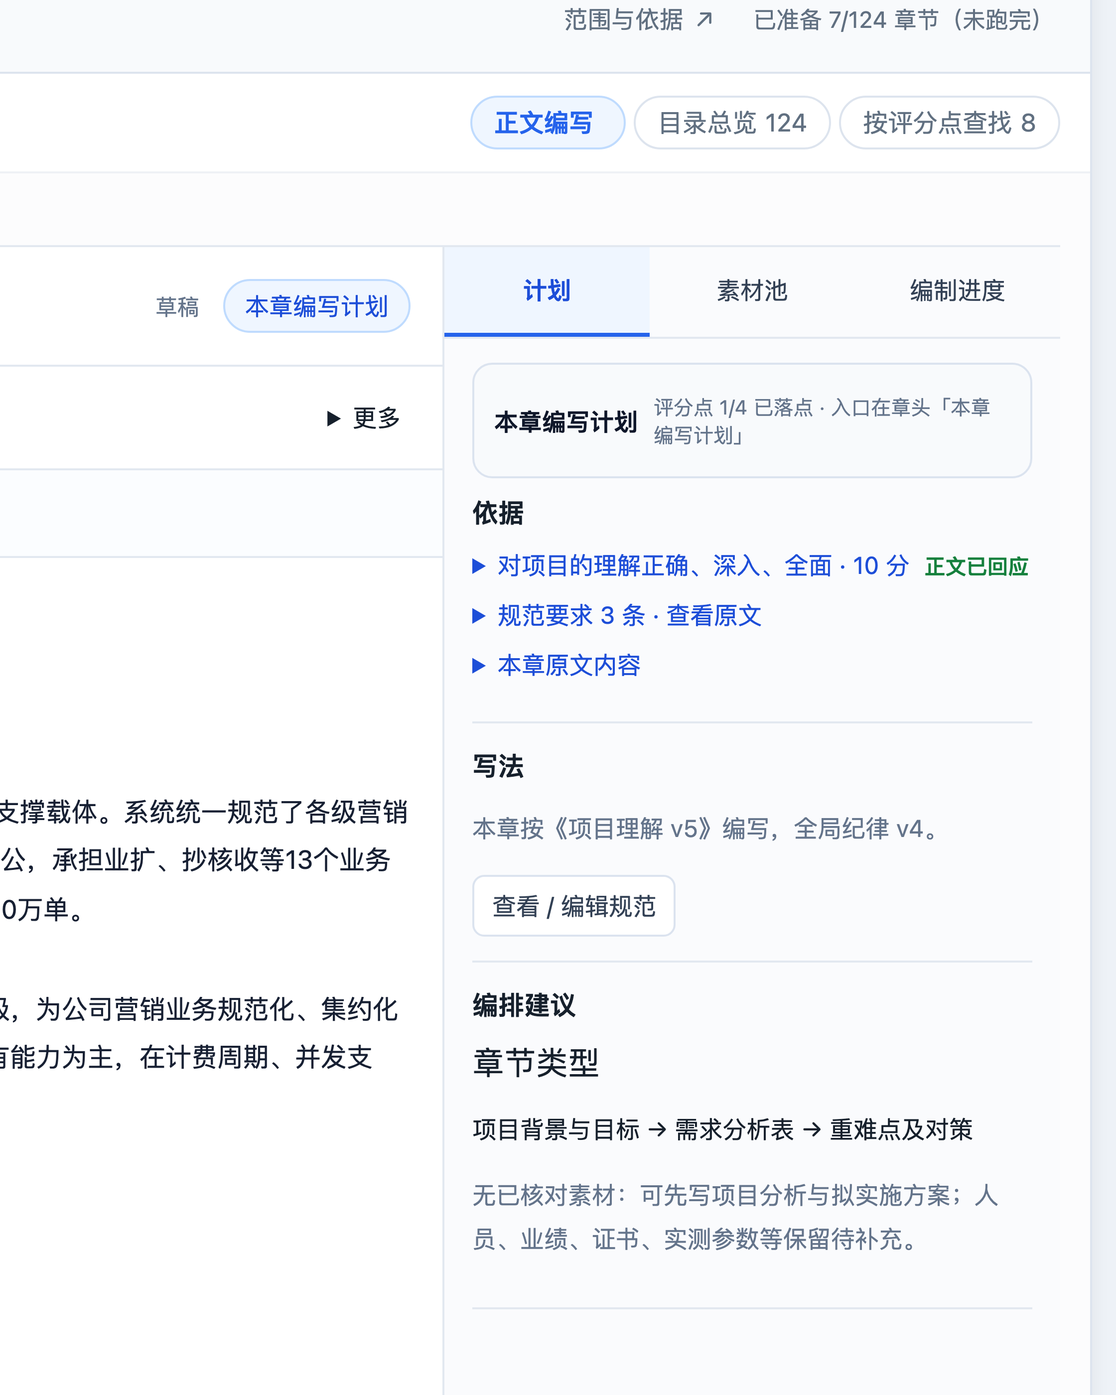
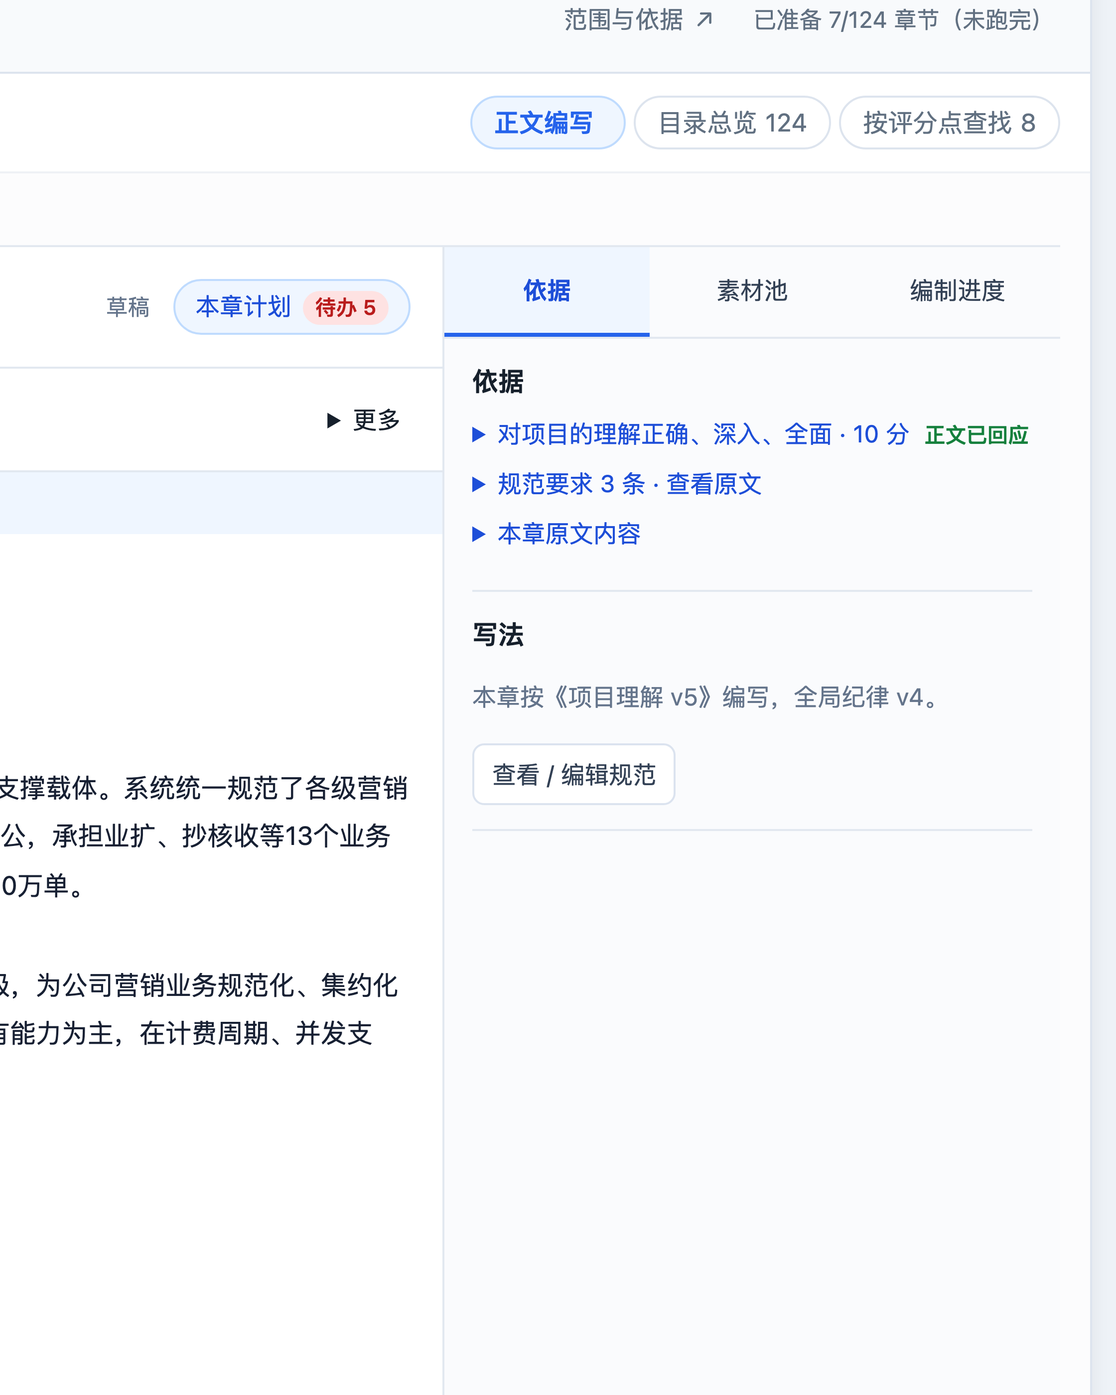
feat(A1-A3): 按 IA 建议重构右栏与章头入口
## A1 章头入口唯一且带状态
- 按钮文案「本章编写计划」→「**本章计划**」
- 新增待办角标「待办 5」（来自 chapter_plan.todo，0 时不显示）
- loadBasis 同时拉取本章计划摘要（todo 数 + 页数），供角标使用

## A2 右栏变成纯参考区
- 页签：「计划 / 素材池 / 进度」→「**依据 / 素材池 / 进度**」（删掉语义重复的"计划"页签）
- 去掉顶部"本章编写计划"状态卡片（状态改由章头角标承载）
- 去掉「编排建议 / 章节类型」块与"无已核对素材…"临时建议
- 保留「依据」（评分点/条款/原文）+「写法」（规范版本 + 查看/编辑）

## A3 生成输入归位
- 「章节类型」下拉移入**本章计划面板的「④ 写法要点」**（它决定骨架/表图/提示词）
- 切换后仍走 PUT /blocks/{id}/studio，即时生效

## 过程记录
中途一次"移除右栏观察器"的编辑误删了右栏事件绑定 → 已 git checkout 回滚并重做
（保留原观察器：右栏 select 移除后它会自动 no-op，安全）

## 自检规则更新（24 条）
- 右栏页签为 依据/素材池/进度（无「计划」）
- 依据页签只含 依据/写法
- 章头入口「本章计划」+ 待办角标
- 章节类型在计划面板内

`bash scripts/check.sh` → 24/24 通过（v302，版本号已统一）

diff --git a/frontend/assets/mode-outline.js b/frontend/assets/mode-outline.js
@@ -2,9 +2,9 @@
    抽成模块的目的：两段内联脚本有 90 个同名顶层标识符 + 18 个重复 DOM id，
    同页拼接必然互相覆盖；各自成为一个模块即各自一个作用域。
    本文件在抽取时**未改任何逻辑**。 */
-import {mountChapterStudio, exportDocument} from './chapter-studio.mjs?v=20261016-v300';
-import { api } from './api.js?v=20261016-v300';
-import { specContentHtml } from './spec-content.mjs?v=20261016-v300';
+import {mountChapterStudio, exportDocument} from './chapter-studio.mjs?v=20261016-v302';
+import { api } from './api.js?v=20261016-v302';
+import { specContentHtml } from './spec-content.mjs?v=20261016-v302';
 // 顶栏（项目名旁边那行「第 N 轮 · ...」）由共享壳 workspace.js 渲染。这里要把它
 // 改成**页面自己的真实状态**：checkpoint 的 stage 在准备中/编写准备完成后都停在
 // outline_review，只看它的话顶栏永远显示"待确认目录"（实测就是这个问题）。
@@ -12,7 +12,7 @@ import { workspace, renderWorkspaceChrome,
          REQUIREMENT_ROLES, SELECTABLE_REQUIREMENT_ROLES, ROLE_LABEL_SHARED, ROLE_HINT_SHARED,
          roleMismatchWarning, inferRoleFromFilename,
          uiAlert, uiConfirm,
-       } from './workspace.js?v=20261016-v300';
+       } from './workspace.js?v=20261016-v302';
 import { resolvePackageScope, buildOutlineTree, isOrphanedRun, activeStages, instructionDirty, newOutlineId, outlineSubtreeRange,
          moveOutlineNode, indentOutlineNode, outdentOutlineNode,
          moveManyOutlineNodes, indentManyOutlineNodes, outdentManyOutlineNodes,
@@ -31,7 +31,7 @@ import { resolvePackageScope, buildOutlineTree, isOrphanedRun, activeStages, ins
          // 章节状态投影：素材库 / 方案编辑 / 覆盖矩阵共用同一份判定（不再各算各的）
          chapterStage, chapterBadges, filterChapters, chapterFilterCounts,
          CHAPTER_STAGE_LABELS, evidenceByChapter, expandVisibleWithAncestors
-       } from './workspace-model.mjs?v=20261016-v300';
+       } from './workspace-model.mjs?v=20261016-v302';
 
 const params = new URLSearchParams(location.search);
 // projectId **只取数字部分**：链接被误写成 `?projectId=19**(Cmd+Shift+R)`（连带说明文字）
@@ -180,7 +180,7 @@ document.head.insertAdjacentHTML('beforeend', `<style>
 // 左栏章节树：行标记与「方案编辑」共用一份（2026-10-13 左栏归一）。
 // 此前两侧各拼一套（.ot-row / .doc-outline-item），数据投影虽已共用，
 // 但标记重复维护会漂移（workspace-model.mjs 注释里记着 "#undefined" 那次）。
-import { chapterNode, chapterBadgesHtml as sharedBadgesHtml } from './chapter-tree.mjs?v=20261016-v300';
+import { chapterNode, chapterBadgesHtml as sharedBadgesHtml } from './chapter-tree.mjs?v=20261016-v302';
 const blocksEmpty = document.getElementById('blocks-empty');
 const sidebarToc  = document.getElementById('sidebar-toc');
 const ringFill    = document.getElementById('ring-fill');

diff --git a/frontend/workbench.html b/frontend/workbench.html
@@ -4,7 +4,7 @@
     <meta charset="UTF-8" />
     <meta name="viewport" content="width=device-width, initial-scale=1.0" />
     <title>智能应标 · 材料撰写</title>
-    <link rel="stylesheet" href="./assets/styles.css?v=20261016-v300" />
+    <link rel="stylesheet" href="./assets/styles.css?v=20261016-v302" />
     <style>
       /* Outline pane */
       .workspace-shell .outline-pane {
@@ -2055,7 +2055,7 @@
     </style>
     <!-- Markdown 渲染（用于预览模式） -->
     <script src="https://cdn.jsdelivr.net/npm/marked@12.0.0/marked.min.js"></script>
-  <link rel="stylesheet" href="./assets/workspace.css?v=20261016-v300" />
+  <link rel="stylesheet" href="./assets/workspace.css?v=20261016-v302" />
   </head>
   <body>
   <script>
@@ -2500,18 +2500,18 @@
       </main>
     </div>
 
-    <script type="module" src="./assets/workbench.js?v=20261016-v300"></script>
+    <script type="module" src="./assets/workbench.js?v=20261016-v302"></script>
     <script type="module">
-      import { GenerateSession } from './assets/generate-session.js?v=20261016-v300';
-      import { initContextPanel } from './assets/context-panel.js?v=20261016-v300';
-      import { api } from './assets/api.js?v=20261016-v300';
-      import { request as workspaceRequest, refreshWorkspace, workspace, confirmChapterAction } from './assets/workspace.js?v=20261016-v300';
+      import { GenerateSession } from './assets/generate-session.js?v=20261016-v302';
+      import { initContextPanel } from './assets/context-panel.js?v=20261016-v302';
+      import { api } from './assets/api.js?v=20261016-v302';
+      import { request as workspaceRequest, refreshWorkspace, workspace, confirmChapterAction } from './assets/workspace.js?v=20261016-v302';
       // 提炼字段枚举 + 素材依据的**渲染片段**与 project-init 共用（见 workspace-model.mjs 注释）：
       // 性质徽标与出处行的实现在那边只有一份，两个页面不再各写一套（曾经因此漂移出
       // "每行显示 #undefined"）。
       import { CONSTRAINT_LEVELS, constraintLevelLabel,
                evidenceKindBadgeHtml, evidenceSourceLineHtml, evidenceSnippet,
-               chapterStage, CHAPTER_STAGE_LABELS } from './assets/workspace-model.mjs?v=20261016-v300';
+               chapterStage, CHAPTER_STAGE_LABELS } from './assets/workspace-model.mjs?v=20261016-v302';
       initContextPanel();
 
       // 素材抽屉：默认收起（写作时右栏就是正文本身），点工具栏「素材 n ▸」打开；
@@ -5575,6 +5575,6 @@
       })();
     })();
     </script>
-  <script type="module" src="./assets/workspace.js?v=20261016-v300"></script>
+  <script type="module" src="./assets/workspace.js?v=20261016-v302"></script>
   </body>
 </html>

diff --git a/frontend/three-mode.html b/frontend/three-mode.html
@@ -4,9 +4,9 @@
     <meta charset="UTF-8" />
     <meta name="viewport" content="width=device-width, initial-scale=1.0" />
     <title>AiBidding · Workbench Init State</title>
-    <link rel="stylesheet" href="./assets/response-outline.css?v=20261016-v300" />
-    <link rel="stylesheet" href="./assets/chapter-studio.css?v=20261016-v300" />
-    <link rel="stylesheet" href="./assets/styles.css?v=20261016-v300" />
+    <link rel="stylesheet" href="./assets/response-outline.css?v=20261016-v302" />
+    <link rel="stylesheet" href="./assets/chapter-studio.css?v=20261016-v302" />
+    <link rel="stylesheet" href="./assets/styles.css?v=20261016-v302" />
     <style>
 /* ── 三栏布局 ── */
 .init-layout {
@@ -3350,8 +3350,8 @@ body[data-view="matching"] .match-detail { display: block; }
   body[data-view="editor"] .ws-editor-layout { flex: 1 1 auto; min-height: 0; }
 
 </style>
-  <link rel="stylesheet" href="./assets/workspace.css?v=20261016-v300" />
-  <link rel="stylesheet" href="./assets/ui.css?v=20261016-v300" />   <!-- 组件最小集：最后加载以统一历史类名 -->
+  <link rel="stylesheet" href="./assets/workspace.css?v=20261016-v302" />
+  <link rel="stylesheet" href="./assets/ui.css?v=20261016-v302" />   <!-- 组件最小集：最后加载以统一历史类名 -->
   </head>
   <body data-view="outline" data-modes="outline,matching,editor">
     <div class="workspace-shell">
@@ -4062,16 +4062,16 @@ body[data-view="matching"] .match-detail { display: block; }
         if (skel) skel.hidden = true;
       }, 6000);
     </script>
-    <script type="module" src="./assets/workbench.js?v=20261016-v300"></script>
-    <script type="module" src="./assets/mode-dispatch.js?v=20261016-v300"></script>
+    <script type="module" src="./assets/workbench.js?v=20261016-v302"></script>
+    <script type="module" src="./assets/mode-dispatch.js?v=20261016-v302"></script>
     <!-- 动态 import：失败可捕获并上报（静态 import 失败无法捕获，会让整页静默不执行） -->
     <script type="module">
-      for (const mod of ['./assets/mode-outline.js?v=20261016-v300',
-                        './assets/mode-editor.js?v=20261016-v300']) {
+      for (const mod of ['./assets/mode-outline.js?v=20261016-v302',
+                        './assets/mode-editor.js?v=20261016-v302']) {
         try { await import(mod); }
         catch (err) { window.__bootErrors.push(`模块加载失败 ${mod}：${err?.message || err}`); }
       }
     </script>
-  <script type="module" src="./assets/workspace.js?v=20261016-v300"></script>
+  <script type="module" src="./assets/workspace.js?v=20261016-v302"></script>
   </body>
 </html>

diff --git a/frontend/project-init.html b/frontend/project-init.html
@@ -4,7 +4,7 @@
     <meta charset="UTF-8" />
     <meta name="viewport" content="width=device-width, initial-scale=1.0" />
     <title>AiBidding · Workbench Init State</title>
-    <link rel="stylesheet" href="./assets/styles.css?v=20261016-v300" />
+    <link rel="stylesheet" href="./assets/styles.css?v=20261016-v302" />
     <style>
 /* ── 三栏布局 ── */
 .init-layout {
@@ -889,7 +889,7 @@ body[data-view="matching"] .match-detail { display: block; }
   background: #eff6ff;
 }
     </style>
-  <link rel="stylesheet" href="./assets/workspace.css?v=20261016-v300" />
+  <link rel="stylesheet" href="./assets/workspace.css?v=20261016-v302" />
   </head>
   <body data-view="outline">
   <script>
@@ -1097,14 +1097,14 @@ body[data-view="matching"] .match-detail { display: block; }
     </div>
 
     <script type="module">
-import { api } from './assets/api.js?v=20261016-v300';
+import { api } from './assets/api.js?v=20261016-v302';
 // 顶栏（项目名旁边那行「第 N 轮 · ...」）由共享壳 workspace.js 渲染。这里要把它
 // 改成**页面自己的真实状态**：checkpoint 的 stage 在提炼中/提炼完成后都停在
 // outline_review，只看它的话顶栏永远显示"待确认目录"（实测就是这个问题）。
 import { workspace, renderWorkspaceChrome,
          REQUIREMENT_ROLES, ROLE_LABEL_SHARED, ROLE_HINT_SHARED,
          roleMismatchWarning, inferRoleFromFilename,
-       } from './assets/workspace.js?v=20261016-v300';
+       } from './assets/workspace.js?v=20261016-v302';
 import { buildOutlineTree, isOrphanedRun, activeStages, instructionDirty, newOutlineId, outlineSubtreeRange,
          moveOutlineNode, indentOutlineNode, outdentOutlineNode,
          removeOutlineSubtree, insertSiblingAfter, insertChildOf,
@@ -1118,7 +1118,7 @@ import { buildOutlineTree, isOrphanedRun, activeStages, instructionDirty, newOut
          // 章节状态投影：素材库 / 方案编辑 / 覆盖矩阵共用同一份判定（不再各算各的）
          chapterStage, chapterBadges, filterChapters, chapterFilterCounts,
          CHAPTER_STAGE_LABELS, evidenceByChapter, expandVisibleWithAncestors
-       } from './assets/workspace-model.mjs?v=20261016-v300';
+       } from './assets/workspace-model.mjs?v=20261016-v302';
 
 const params = new URLSearchParams(location.search);
 const projectId = params.get('projectId');
@@ -4957,6 +4957,6 @@ bindMatchDetailActions();
   });
 })();
     </script>
-  <script type="module" src="./assets/workspace.js?v=20261016-v300"></script>
+  <script type="module" src="./assets/workspace.js?v=20261016-v302"></script>
   </body>
 </html>

diff --git a/frontend/assets/mode-editor.js b/frontend/assets/mode-editor.js
@@ -2,13 +2,13 @@
    抽成模块的目的：两段内联脚本有 90 个同名顶层标识符 + 18 个重复 DOM id，
    同页拼接必然互相覆盖；各自成为一个模块即各自一个作用域。
    本文件在抽取时**未改任何逻辑**。 */
-import { GenerateSession } from './generate-session.js?v=20261016-v300';
+import { GenerateSession } from './generate-session.js?v=20261016-v302';
 // 左栏章节树：与「要求与大纲 / 素材库」共用一份行标记（2026-10-13 左栏归一）
-import { chapterNode, renderChapterTree } from './chapter-tree.mjs?v=20261016-v300';
-import { initContextPanel } from './context-panel.js?v=20261016-v300';
-import { api } from './api.js?v=20261016-v300';
+import { chapterNode, renderChapterTree } from './chapter-tree.mjs?v=20261016-v302';
+import { initContextPanel } from './context-panel.js?v=20261016-v302';
+import { api } from './api.js?v=20261016-v302';
 import { request as workspaceRequest, refreshWorkspace, workspace, confirmChapterAction ,
-         uiAlert, uiConfirm} from './workspace.js?v=20261016-v300';
+         uiAlert, uiConfirm} from './workspace.js?v=20261016-v302';
 
 // ── 本章要求 bar 的应答条目缓存 ──────────────────────────────
 // 必须**声明在模块最前面**：它原本声明在文件中部，而模块之间存在循环依赖
@@ -21,7 +21,7 @@ let responseItemsByBlock = {};
 // "每行显示 #undefined"）。
 import { CONSTRAINT_LEVELS, constraintLevelLabel,
          evidenceKindBadgeHtml, evidenceSourceLineHtml, evidenceSnippet,
-         chapterStage, CHAPTER_STAGE_LABELS } from './workspace-model.mjs?v=20261016-v300';
+         chapterStage, CHAPTER_STAGE_LABELS } from './workspace-model.mjs?v=20261016-v302';
 initContextPanel();
 
 // 素材抽屉：默认收起（写作时右栏就是正文本身），点工具栏「素材 n ▸」打开；

diff --git a/frontend/project-intake.html b/frontend/project-intake.html
@@ -3,7 +3,7 @@
 <head>
   <meta charset="utf-8"><meta name="viewport" content="width=device-width,initial-scale=1">
   <title>项目准备 · 智能应标</title>
-  <link rel="stylesheet" href="/assets/styles.css?v=20261016-v300">
+  <link rel="stylesheet" href="/assets/styles.css?v=20261016-v302">
   <style>
     body{margin:0;background:#f7f8fa;color:#17202a;font-family:Inter,"PingFang SC",sans-serif}
     .shell{max-width:1120px;margin:auto;padding:28px}.top{display:flex;justify-content:space-between;align-items:center;margin-bottom:22px}
@@ -32,4 +32,4 @@
 </main>
 <dialog id="package-editor"><form id="package-form"><h2>编辑投标对象</h2><p class="hint">仅在识别有误时修改；名称可留空。</p><input id="edit-id" type="hidden"><label>对象类型<select id="edit-kind"><option value="package">标包</option><option value="section">标段</option><option value="target">独立标的</option></select></label><label>所属标的编号<input id="edit-target"></label><label>标包 / 标段编号<input id="edit-code"></label><label>完整名称<input id="edit-name" maxlength="300"></label><div class="actions"><button type="button" id="cancel-edit">取消</button><button class="primary" type="submit">保存</button></div></form></dialog>
 <dialog id="merge-dialog"><form id="merge-form"><h2>合并重复候选</h2><p class="hint">将当前候选的证据合并到以下保留项。已有运行成果的候选不能合并，保留项需要重新核验。</p><input id="merge-source" type="hidden"><label>保留的投标对象<select id="merge-destination"></select></label><div class="actions"><button type="button" id="cancel-merge">取消</button><button type="submit" class="primary">确认合并</button></div></form></dialog>
-<script type="module" src="/assets/intake.js?v=20261016-v300"></script></body></html>
+<script type="module" src="/assets/intake.js?v=20261016-v302"></script></body></html>

diff --git a/frontend/review.html b/frontend/review.html
@@ -4,16 +4,16 @@
     <meta charset="UTF-8" />
     <meta name="viewport" content="width=device-width, initial-scale=1.0" />
     <title>AiBidding · 质量检查</title>
-    <link rel="stylesheet" href="./assets/styles.css?v=20261016-v300" />
-    <link rel="stylesheet" href="./assets/review.css?v=20261016-v300" />
-  <link rel="stylesheet" href="./assets/workspace.css?v=20261016-v300" />
+    <link rel="stylesheet" href="./assets/styles.css?v=20261016-v302" />
+    <link rel="stylesheet" href="./assets/review.css?v=20261016-v302" />
+  <link rel="stylesheet" href="./assets/workspace.css?v=20261016-v302" />
   <style>
     /* 返回作业面板：与项目名同级的次级入口 */
     .back-to-panel { margin-left:10px; font-size:12.5px; color:var(--muted); text-decoration:none;
       border:1px solid var(--line); border-radius:8px; padding:3px 10px; }
     .back-to-panel:hover { color:var(--text); background:var(--bg-2); }
   </style>
-  <link rel="stylesheet" href="./assets/ui.css?v=20261016-v300" />   <!-- 组件最小集：最后加载以统一历史类名 -->
+  <link rel="stylesheet" href="./assets/ui.css?v=20261016-v302" />   <!-- 组件最小集：最后加载以统一历史类名 -->
   </head>
   <body>
     <div class="workspace-shell">
@@ -96,7 +96,7 @@
       </main>
     </div>
 
-    <script type="module" src="./assets/review.js?v=20261016-v300"></script>
-  <script type="module" src="./assets/workspace.js?v=20261016-v300"></script>
+    <script type="module" src="./assets/review.js?v=20261016-v302"></script>
+  <script type="module" src="./assets/workspace.js?v=20261016-v302"></script>
   </body>
 </html>

diff --git a/frontend/assets/workbench.js b/frontend/assets/workbench.js
@@ -1,12 +1,12 @@
-import {workspace, subscribe, refreshWorkspace, workspaceUrl, confirmChapterAction, openDialog, showHistory, statusLabels, esc} from './workspace.js?v=20261016-v300';
+import {workspace, subscribe, refreshWorkspace, workspaceUrl, confirmChapterAction, openDialog, showHistory, statusLabels, esc} from './workspace.js?v=20261016-v302';
 // 章节状态/依据徽标与「素材库」共用一份投影（同一棵目录树，四个环节都一样）
-import {chapterBadges, parseEvidence} from './workspace-model.mjs?v=20261016-v300';
+import {chapterBadges, parseEvidence} from './workspace-model.mjs?v=20261016-v302';
 // 左栏章节树：**三个模式共用一份**行标记（2026-10-13 归一）。
 // 此前编辑器侧自己拼 `.doc-outline-item`、大纲侧拼 `.ot-row`，是两套实现；
 // 数据投影本就共用（workspace-model），这里把标记也收敛掉。
 // 行上仍保留 `doc-outline-item` 类与 data-block-id 属性，兼容 mode-editor.js 里
 // 既有的 10 处选择器（改动面最小化）。
-import {chapterNode, renderChapterTree, chapterBadgesHtml} from './chapter-tree.mjs?v=20261016-v300';
+import {chapterNode, renderChapterTree, chapterBadgesHtml} from './chapter-tree.mjs?v=20261016-v302';
 // 左栏树的**唯一宿主**：由 mode-dispatch 在模式切换时把 #blocks-list 搬到当前模式的
 // 左栏位置。归一前这里是 `.doc-outline`，与大纲侧 `#blocks-list` 各渲一棵（实测
 // .ot-node 有 120 个 = 两棵各 60）。动态解析而不是加载时捕获，就是为了让宿主可搬。

diff --git a/frontend/projects.html b/frontend/projects.html
@@ -4,7 +4,7 @@
     <meta charset="UTF-8" />
     <meta name="viewport" content="width=device-width, initial-scale=1.0" />
     <title>智能应标 · 项目列表</title>
-    <link rel="stylesheet" href="./assets/styles.css?v=20261016-v300" />
+    <link rel="stylesheet" href="./assets/styles.css?v=20261016-v302" />
     <style>
       /* ── 页头 ── */
       .app-header {
@@ -613,7 +613,7 @@
       .btn-api-save:disabled { opacity: 0.45; cursor: default; }
       .btn-api-save:not(:disabled):hover { opacity: 0.88; }
     </style>
-    <link rel="stylesheet" href="./assets/ui.css?v=20261016-v300" />   <!-- 组件最小集：最后加载以统一历史类名 -->
+    <link rel="stylesheet" href="./assets/ui.css?v=20261016-v302" />   <!-- 组件最小集：最后加载以统一历史类名 -->
 </head>
   <body>
     <!-- 页头 -->
@@ -745,7 +745,7 @@
     </div>
 
     <script type="module">
-      import { api } from './assets/api.js?v=20261016-v300';
+      import { api } from './assets/api.js?v=20261016-v302';
 
       // ── 状态 ──
       const reqFiles = []; // {file, name, size, ext}

diff --git a/frontend/diff-review.html b/frontend/diff-review.html
@@ -4,8 +4,8 @@
     <meta charset="UTF-8" />
     <meta name="viewport" content="width=device-width, initial-scale=1.0" />
     <title>AiBidding · Diff Review</title>
-    <link rel="stylesheet" href="./assets/styles.css?v=20261016-v300" />
-  <link rel="stylesheet" href="./assets/workspace.css?v=20261016-v300" />
+    <link rel="stylesheet" href="./assets/styles.css?v=20261016-v302" />
+  <link rel="stylesheet" href="./assets/workspace.css?v=20261016-v302" />
   </head>
   <body>
     <div class="workspace-shell">
@@ -98,7 +98,7 @@
     </div>
 
     <script type="module">
-      import { api } from './assets/api.js?v=20261016-v300';
+      import { api } from './assets/api.js?v=20261016-v302';
 
       const params    = new URLSearchParams(location.search);
       const projectId = params.get('projectId');
@@ -326,6 +326,6 @@
 
       loadRevisions();
     </script>
-  <script type="module" src="./assets/workspace.js?v=20261016-v300"></script>
+  <script type="module" src="./assets/workspace.js?v=20261016-v302"></script>
   </body>
 </html>

diff --git a/frontend/assets/workspace.js b/frontend/assets/workspace.js
@@ -1,11 +1,11 @@
-import {projectChapters, summarize, statusLabels, stageLabels, activeStages, runtimeStages, isOrphanedRun, isExtractDone, diffHtml, escapeHtml as esc} from './workspace-model.mjs?v=20261016-v300';
+import {projectChapters, summarize, statusLabels, stageLabels, activeStages, runtimeStages, isOrphanedRun, isExtractDone, diffHtml, escapeHtml as esc} from './workspace-model.mjs?v=20261016-v302';
 export {statusLabels, esc};
 // 材料角色体系再导出：project-init 的角色下拉与"分类纠错提示"都从这里取
 export {
   REQUIREMENT_ROLES, SELECTABLE_REQUIREMENT_ROLES, SOURCE_ROLES, ALL_MATERIAL_ROLES,
   ROLE_LABEL as ROLE_LABEL_SHARED, ROLE_HINT as ROLE_HINT_SHARED,
   isRequirementRole, inferRoleFromFilename, roleMismatchWarning,
-} from './material-roles.mjs?v=20261016-v300';
+} from './material-roles.mjs?v=20261016-v302';
 export async function request(url, options) {
   const response = await fetch(url, options);
   const data = await response.json().catch(() => ({}));

diff --git a/frontend/assets/chapter-studio.css b/frontend/assets/chapter-studio.css
@@ -477,3 +477,9 @@
 /* 内容区与序号行之间留出呼吸，且内容不再贴左边界 */
 .cs-cp-block { padding-top: 10px; }
 .cs-cp-todo:first-of-type, .cs-cp-del:first-of-type { border-top: 1px solid #f1f5f9; }
+
+/* 章头「本章计划」按钮的待办角标 + 计划面板里的章节类型行 */
+.cs-plan-badge { display: inline-block; margin-left: 6px; font-size: 10.5px; font-weight: 600; padding: 1px 6px;
+  border-radius: 999px; background: #fee2e2; color: #b91c1c; }
+.cs-cp-kind-row { display: flex; align-items: center; gap: 8px; margin: 8px 0 0; font-size: 12px; color: #334155; flex-wrap: wrap; }
+.cs-cp-kind-row select { font: inherit; font-size: 12px; padding: 4px 8px; border: 1px solid #dbe3ef; border-radius: 6px; }
